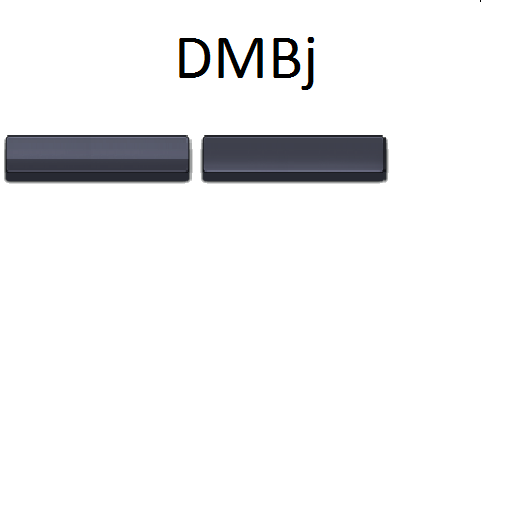
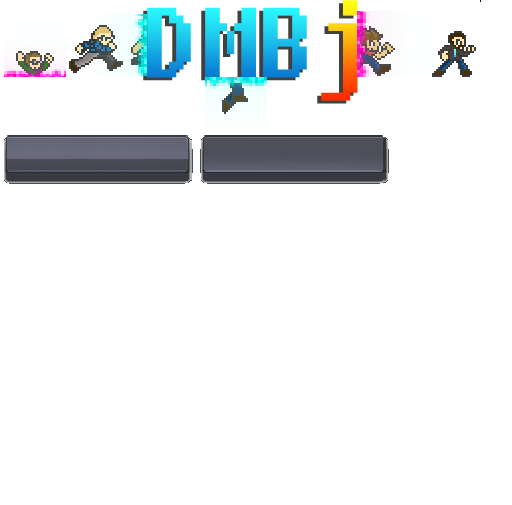
Updated title screen.

Changed region(s): [[0.0, 0.0, 0.7812, 0.2376], [0.8438, 0.0594, 0.9375, 0.1485], [0.375, 0.297, 0.4062, 0.3267]]

diff --git a/Scripts/Screens.js b/Scripts/Screens.js
@@ -131,7 +131,7 @@ function TitleScreen() {
 		CONTEXT.fillStyle = "#D8D8D8";
 		CONTEXT.font = "36px serif";
 		CONTEXT.textAlign = "center";
-		CONTEXT.fillText("Select Character", w / 2, h);
+		CONTEXT.fillText("Select Character", w / 2, h+30);
 		CONTEXT.restore();
 
 
